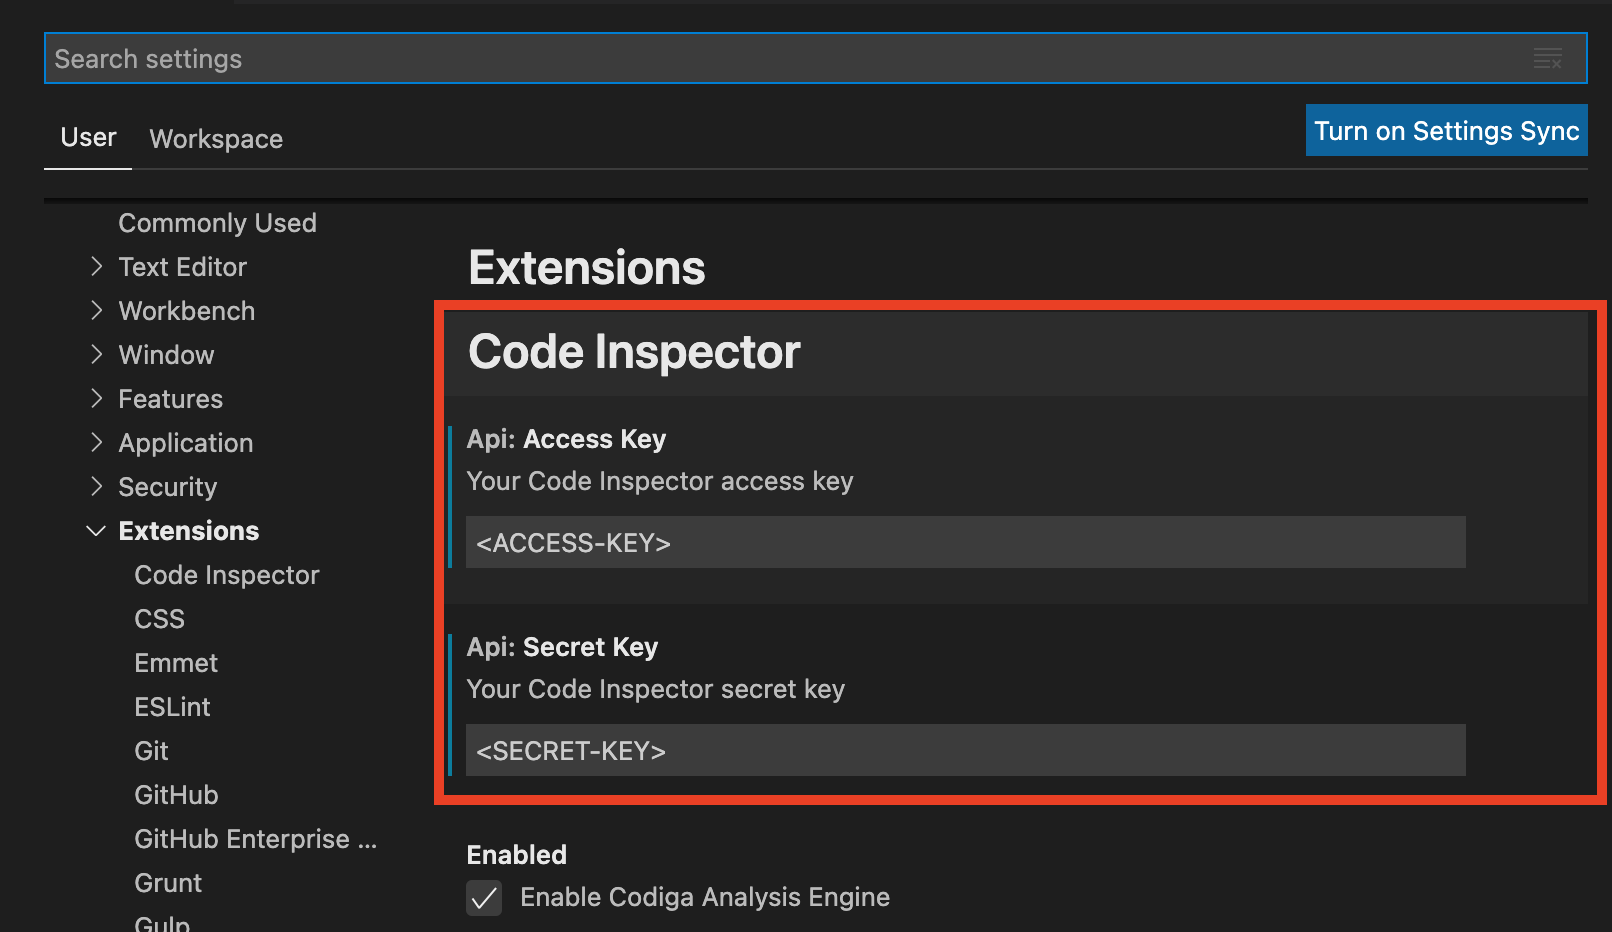
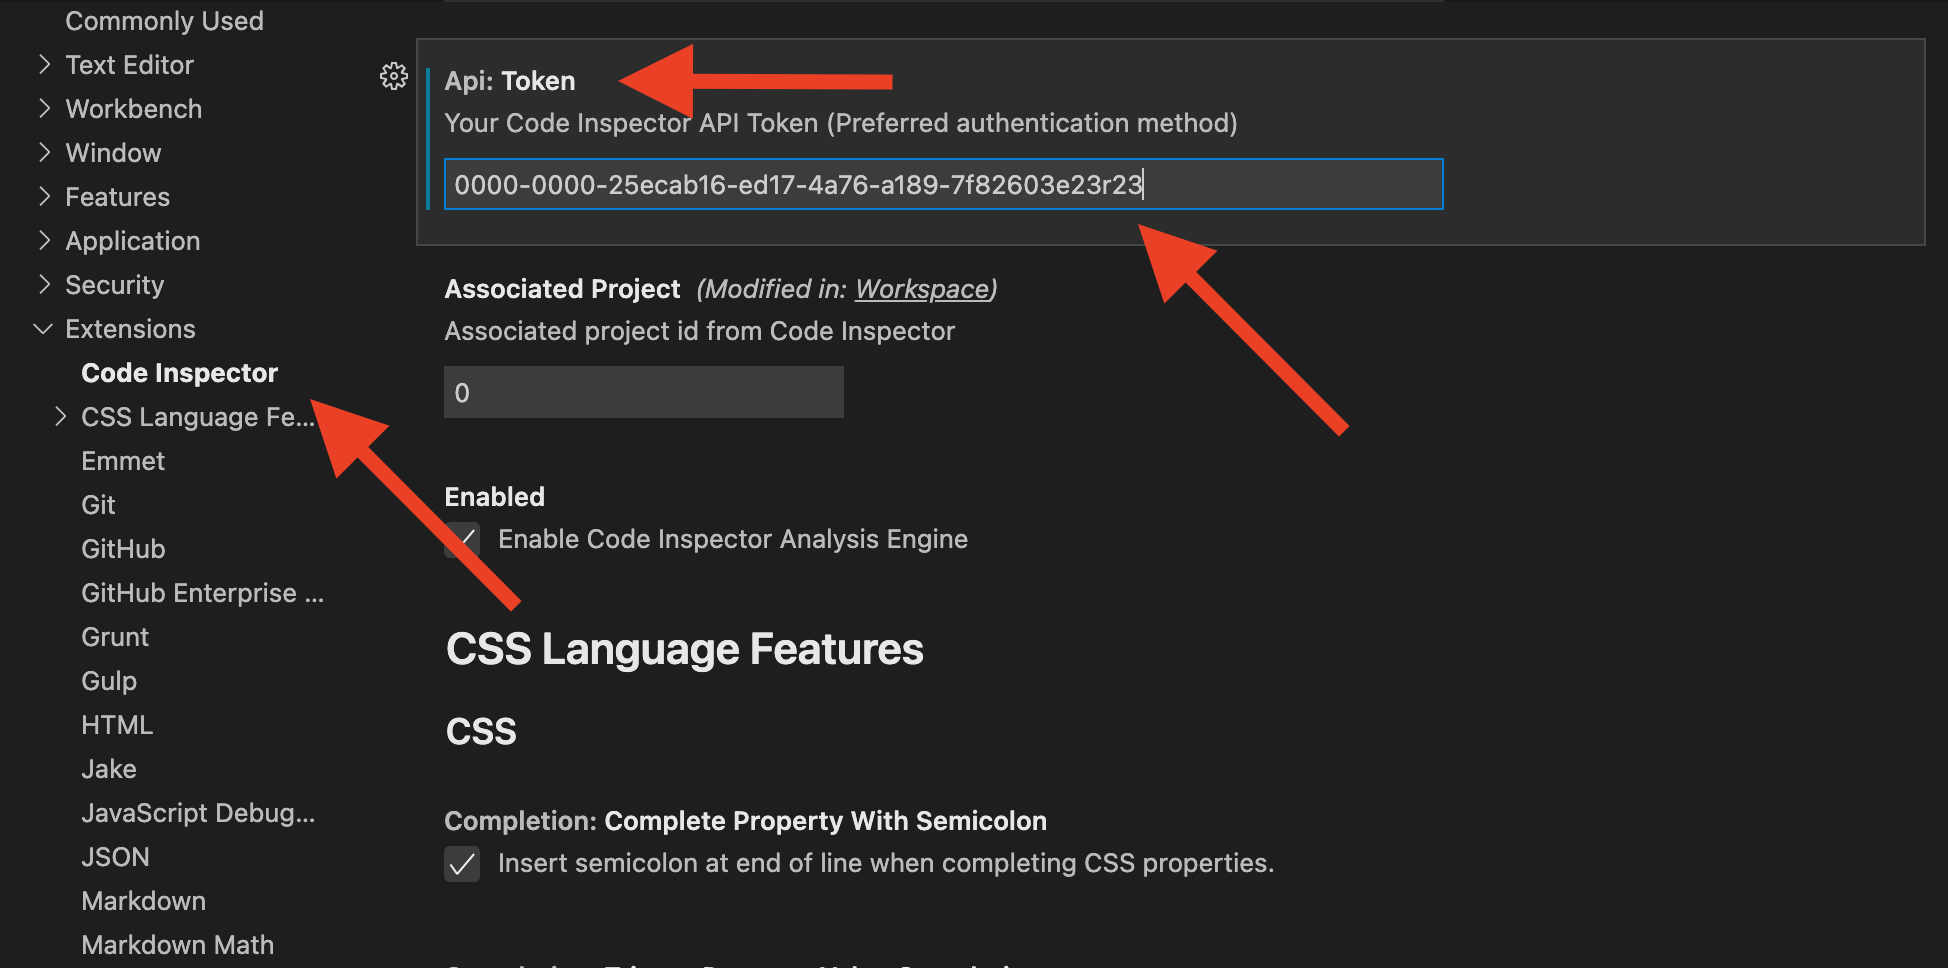
Add pictures to generate API token

diff --git a/README.md b/README.md
@@ -13,15 +13,16 @@ C, C++, Java, Javascript, Typescript, Python, Dart, Ruby, PHP, Scala, Apex, Terr
 
 ### Getting API keys from Code Inspector
 
-You need to get API keys from [Code Inspector](https://code-inspector.com).
+You need an APU Token from [Code Inspector](https://code-inspector.com).
 Log on [Code Inspector](https://frontend.code-inspector.com) using your GitHub, GitLab or Bitbucket account.
 
 Then, in your preferences, generate a new API key as shown below.
 
-![Generate API keys in Code Inspector profile](https://raw.githubusercontent.com/codeinspectorio/vscode-plugin/main/images/get-keys.png?raw=true)
+![Generate API Token on Code Inspector](https://raw.githubusercontent.com/codeinspectorio/vscode-plugin/main/images/api-token-creation.gif?raw=true)
 
 Your access and secret keys are then generated: all you need is to add them to your VS Code Plugin configuration.
 
+**Note**: use API token and no API keys. API keys (found in profile) are deprecated and will be removed in future versions.
 
 ### Add keys in the VS Code extension
 
@@ -29,34 +30,38 @@ Enter your API keys in your VS Code extension, as shown below.
 
 ![Enter your API keys](https://github.com/codeinspectorio/vscode-plugin/blob/main/images/configuration.png?raw=true)
 
-
 ## Using Code Inspector in your CI/CD pipeline
 
 You can run the same rules in your codebase during your CI/CD pipeline and/or automate your code reviews.
 
 You can easily integrate Code Inspector with
 
- - GitHub using the [GitHub App integration](https://github.com/marketplace/code-inspector)
- - Bitbucket using the [Bitbucket App integration](https://marketplace.atlassian.com/apps/1222117/code-inspector)
- - Any other CI/CD pipeline (see our documentation)
+- GitHub using the [GitHub App integration](https://github.com/marketplace/code-inspector)
+- Bitbucket using the [Bitbucket App integration](https://marketplace.atlassian.com/apps/1222117/code-inspector)
+- Any other CI/CD pipeline (see our documentation)
 
 ## Sending feedback
 
 You can either fill a [bug report](https://github.com/codeinspectorio/vscode-plugin/issues) directly.
-If you do not want to open a ticket, you can also directly [contact us](https://code-inspector.com/contact). 
+If you do not want to open a ticket, you can also directly [contact us](https://code-inspector.com/contact).
 
 ## Release Notes
 
+### Version 1.1.2
+
+- Support new API tokens
+
 ### Version 0.0.2
 
- - More documentation
- - New bundle package
+- More documentation
+- New bundle package
 
 ### Version 0.0.1
 
- - Initial release
+- Initial release
 
 ## Learn More
- * [Official Documentation](https://docs.code-inspector.com)
- * [List of all supported languages](https://doc.code-inspector.com/docs/faq/#what-languages-are-supported)
- * [Privacy Policy](https://code-inspector.com/privacy)
+
+- [Official Documentation](https://docs.code-inspector.com)
+- [List of all supported languages](https://doc.code-inspector.com/docs/faq/#what-languages-are-supported)
+- [Privacy Policy](https://code-inspector.com/privacy)

diff --git a/CHANGELOG.md b/CHANGELOG.md
@@ -2,6 +2,10 @@
 
 ## [Unreleased]
 
+## [0.1.2]
+
+- New API Token format
+
 ## [0.1.1]
 
 - Support chrome plugin
